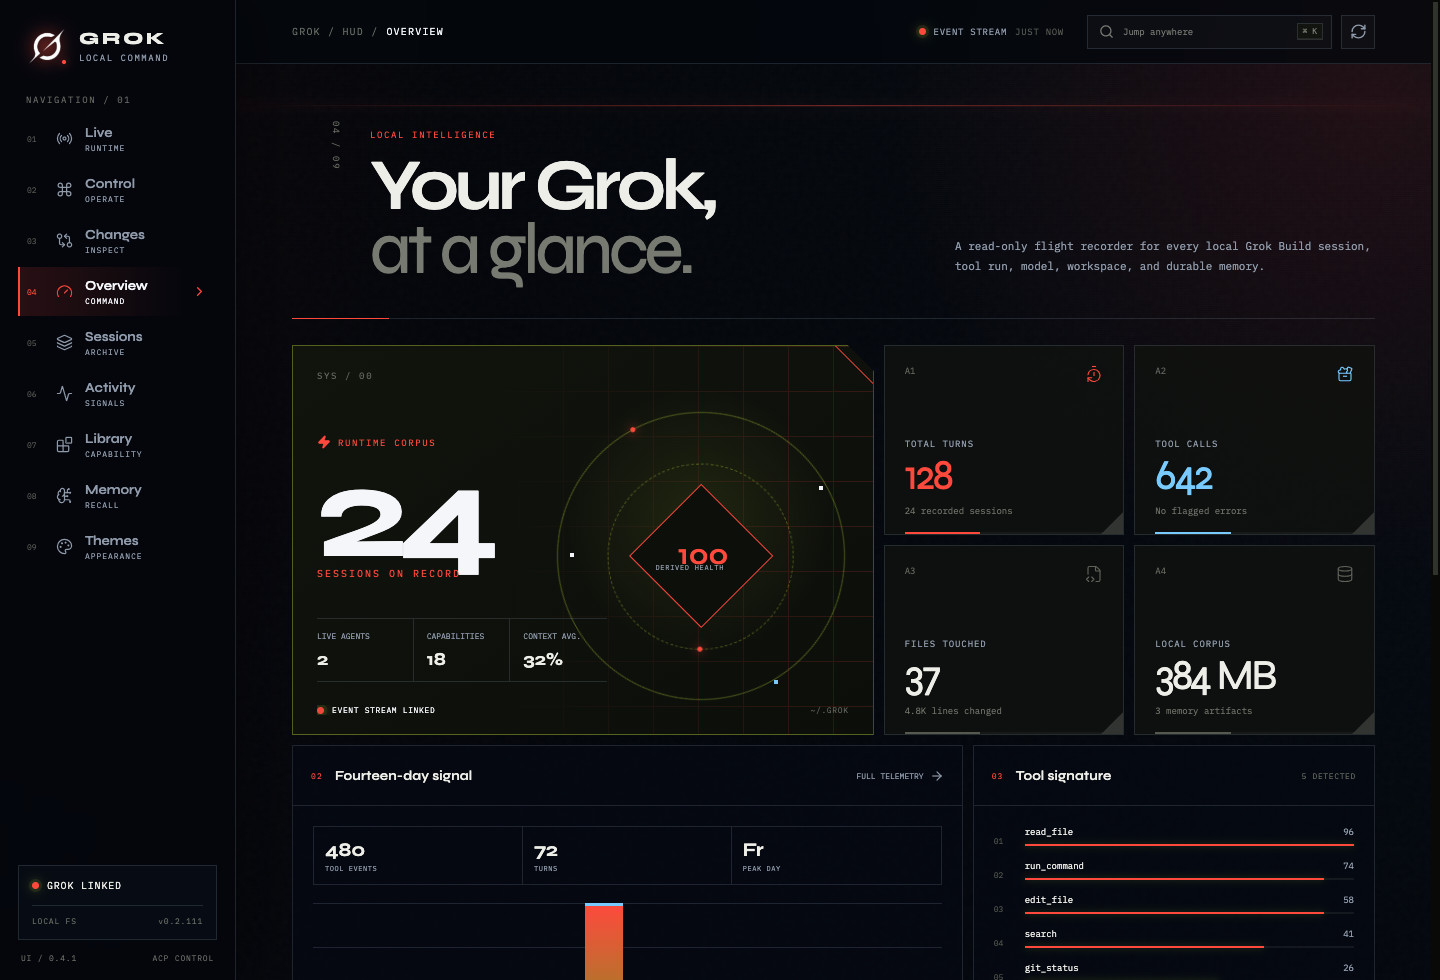
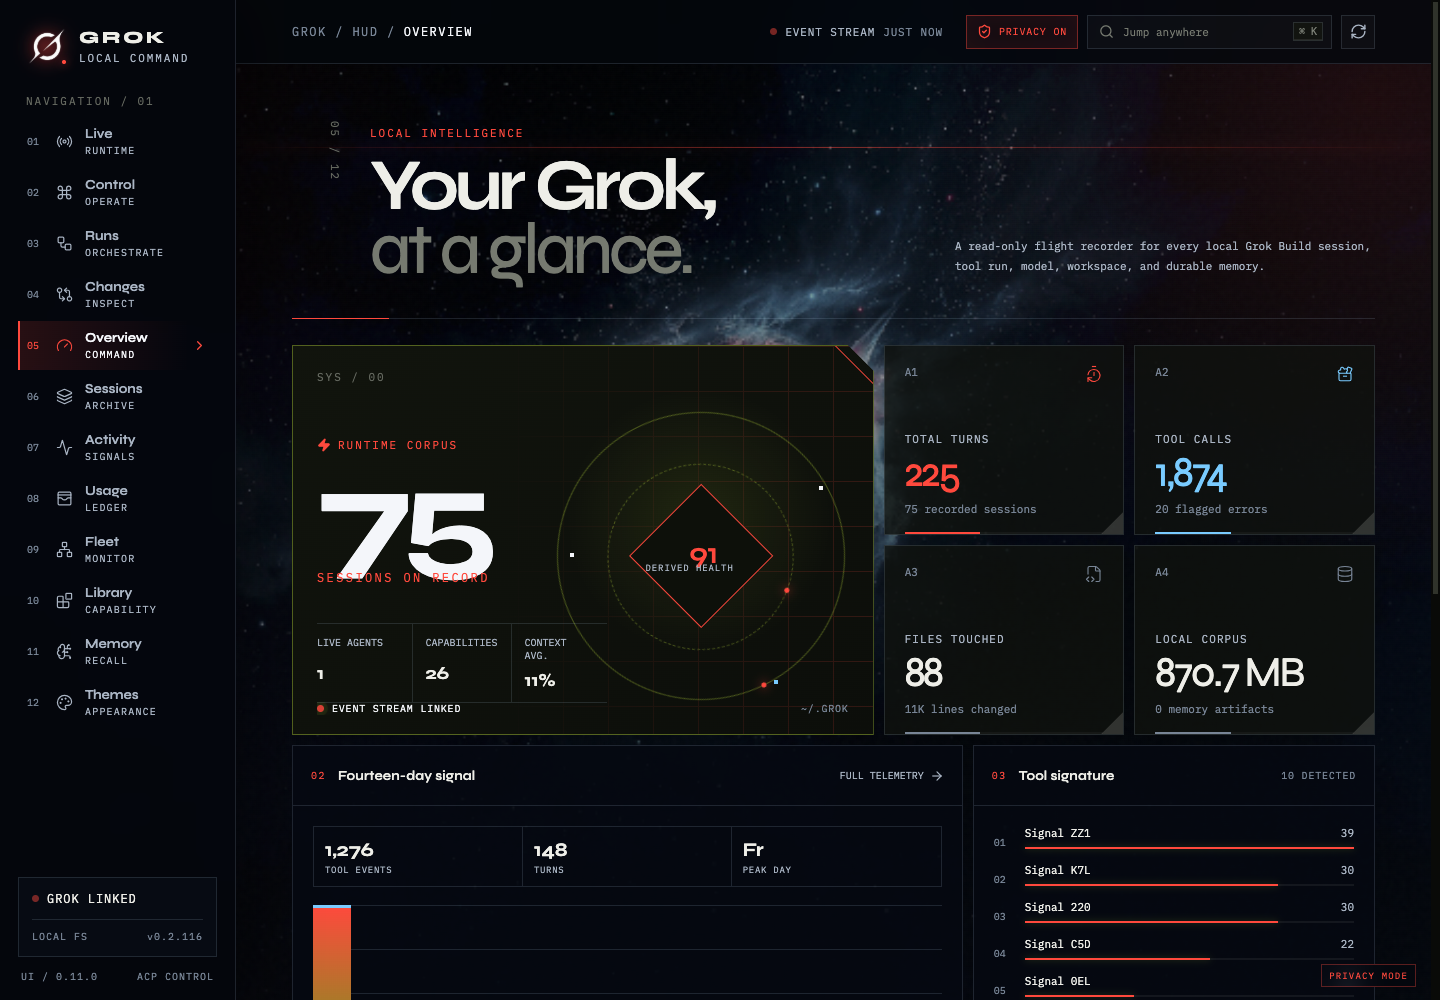
docs: refresh dashboard screenshot

diff --git a/README.md b/README.md
@@ -16,7 +16,9 @@ and move through your complete local history without leaving the browser.
 ![Local first](https://img.shields.io/badge/privacy-local--first-D9FF43?labelColor=111318)
 ![License: MIT](https://img.shields.io/badge/license-MIT-E44738)
 
-<img src="docs/grok-ui-dashboard.png" width="900" alt="Grok UI Event Horizon dashboard with live runtime telemetry"/>
+<a href="https://raw.githubusercontent.com/joeynyc/Grok-UI/main/docs/grok-ui-dashboard.png">
+  <img src="docs/grok-ui-dashboard.png" width="900" alt="Grok UI Event Horizon dashboard with all 12 product areas and Privacy Mode enabled"/>
+</a>
 
 [**Watch the 24-second product tour**](https://github.com/joeynyc/Grok-UI/releases/download/v0.5.1/grok-ui-dashboard-tour-final-white-logo.mp4)
 · [**See what’s new in v0.11.0**](https://github.com/joeynyc/Grok-UI/releases/tag/v0.11.0)
